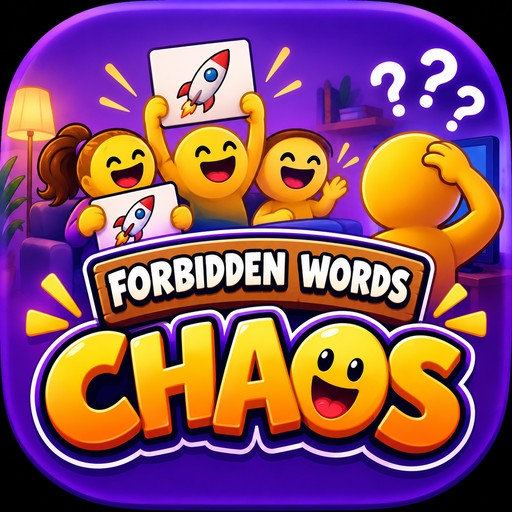
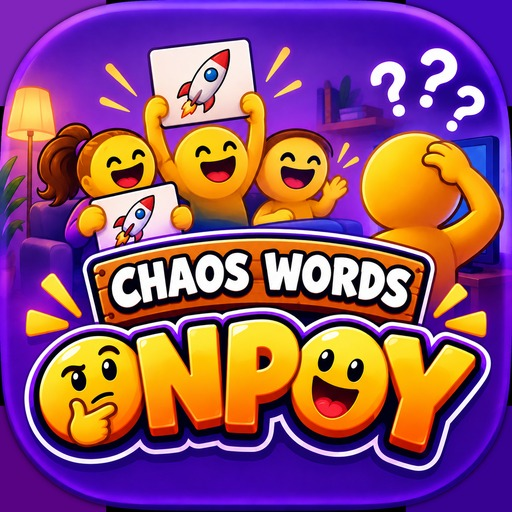
Add files via upload

diff --git a/games/chaos/de/index.html b/games/chaos/de/index.html
@@ -3,8 +3,8 @@
 <head>
 <meta charset="utf-8">
 <meta name="viewport" content="width=device-width, initial-scale=1">
-<title>Chaos – Verbotene W&ouml;rter</title>
-<meta name="description" content="Chaos – Verbotene W&ouml;rter. Rechtliches, Support und Infos zur App von OnPoy Studios.">
+<title>OnPoy Chaos Words</title>
+<meta name="description" content="OnPoy Chaos Words. Rechtliches, Support und Infos zur App von OnPoy Studios.">
 <meta name="theme-color" content="#0a0d18">
 <link rel="icon" href="../icon.jpg">
 <link rel="stylesheet" href="/fonts/fonts.css">
@@ -119,9 +119,9 @@
   <a class="back" href="../../../de/"><span aria-hidden="true">&larr;</span> OnPoy Studios</a>
 
   <div class="topline">
-    <img src="../icon.jpg" alt="Chaos – Verbotene W&ouml;rter App-Icon">
+    <img src="../icon.jpg" alt="OnPoy Chaos Words App-Icon">
     <div class="who">
-      <div class="n">Chaos &ndash; Verbotene W&ouml;rter</div>
+      <div class="n">OnPoy Chaos Words</div>
       <div class="s">Party-Wortspiel &middot; OnPoy Studios</div>
     </div>
     <div class="lang" role="group" aria-label="Sprache / Language">
@@ -132,7 +132,7 @@
 
   <section class="hero glass">
     <span class="mono ey">iOS&nbsp;&middot;&nbsp;Party&nbsp;&amp;&nbsp;Wortspiel</span>
-    <h1>Chaos &ndash; Verbotene W&ouml;rter</h1>
+    <h1>OnPoy Chaos Words</h1>
     <p class="lead">
       Erkl&auml;re deinem Team Begriffe &ndash; ohne die verbotenen W&ouml;rter zu benutzen. Mit Team-Modus, Duell-Modus und Ja/Nein-Modus, Statistiken und Erfolgen.
     </p>
@@ -156,7 +156,7 @@
     </a>
     <a class="tile" href="nutzungsbedingungen.html">
       <span class="t"><span>Nutzungs&shy;bedingungen</span><span class="arr" aria-hidden="true">&rarr;</span></span>
-      <span class="d">Bedingungen f&uuml;r die Nutzung von Chaos &ndash; Verbotene W&ouml;rter.</span>
+      <span class="d">Bedingungen f&uuml;r die Nutzung von OnPoy Chaos Words.</span>
     </a>
     <a class="tile" href="impressum.html">
       <span class="t"><span>Impressum</span><span class="arr" aria-hidden="true">&rarr;</span></span>

diff --git a/games/chaos/en/index.html b/games/chaos/en/index.html
@@ -3,8 +3,8 @@
 <head>
 <meta charset="utf-8">
 <meta name="viewport" content="width=device-width, initial-scale=1">
-<title>Chaos &ndash; Forbidden Words</title>
-<meta name="description" content="Chaos - Forbidden Words. Legal info, support and details about the app by OnPoy Studios.">
+<title>OnPoy Chaos Words</title>
+<meta name="description" content="OnPoy Chaos Words. Legal info, support and details about the app by OnPoy Studios.">
 <meta name="theme-color" content="#0a0d18">
 <link rel="icon" href="../icon.jpg">
 <link rel="stylesheet" href="/fonts/fonts.css">
@@ -119,9 +119,9 @@
   <a class="back" href="../../../en/"><span aria-hidden="true">&larr;</span> OnPoy Studios</a>
 
   <div class="topline">
-    <img src="../icon.jpg" alt="Chaos – Forbidden Words app icon">
+    <img src="../icon.jpg" alt="OnPoy Chaos Words app icon">
     <div class="who">
-      <div class="n">Chaos &ndash; Forbidden Words</div>
+      <div class="n">OnPoy Chaos Words</div>
       <div class="s">Party Word Game &middot; OnPoy Studios</div>
     </div>
     <div class="lang" role="group" aria-label="Sprache / Language">
@@ -132,7 +132,7 @@
 
   <section class="hero glass">
     <span class="mono ey">iOS&nbsp;&middot;&nbsp;Party&nbsp;&amp;&nbsp;Word&nbsp;Game</span>
-    <h1>Chaos &ndash; Forbidden Words</h1>
+    <h1>OnPoy Chaos Words</h1>
     <p class="lead">
       Explain terms to your team &ndash; without using the forbidden words. With Team mode, Duel mode and Yes/No mode, stats and achievements.
     </p>
@@ -156,7 +156,7 @@
     </a>
     <a class="tile" href="nutzungsbedingungen.html">
       <span class="t"><span>Terms of Service</span><span class="arr" aria-hidden="true">&rarr;</span></span>
-      <span class="d">Conditions for using Chaos &ndash; Forbidden Words.</span>
+      <span class="d">Conditions for using OnPoy Chaos Words.</span>
     </a>
     <a class="tile" href="impressum.html">
       <span class="t"><span>Legal Notice</span><span class="arr" aria-hidden="true">&rarr;</span></span>

diff --git a/games/chaos/index.html b/games/chaos/index.html
@@ -5,10 +5,10 @@
 <meta http-equiv="refresh" content="0; url=de/">
 <link rel="canonical" href="de/">
 <meta name="robots" content="noindex">
-<title>Chaos – Verbotene W&ouml;rter</title>
+<title>OnPoy Chaos Words</title>
 </head>
 <body>
-<p>Weiterleitung … / Redirecting … <a href="de/">Chaos – Verbotene W&ouml;rter (Deutsch)</a> / <a href="en/">Chaos – Forbidden Words (English)</a></p>
+<p>Weiterleitung … / Redirecting … <a href="de/">OnPoy Chaos Words (Deutsch)</a> / <a href="en/">OnPoy Chaos Words (English)</a></p>
 <script>location.replace('de/');</script>
 </body>
 </html>
